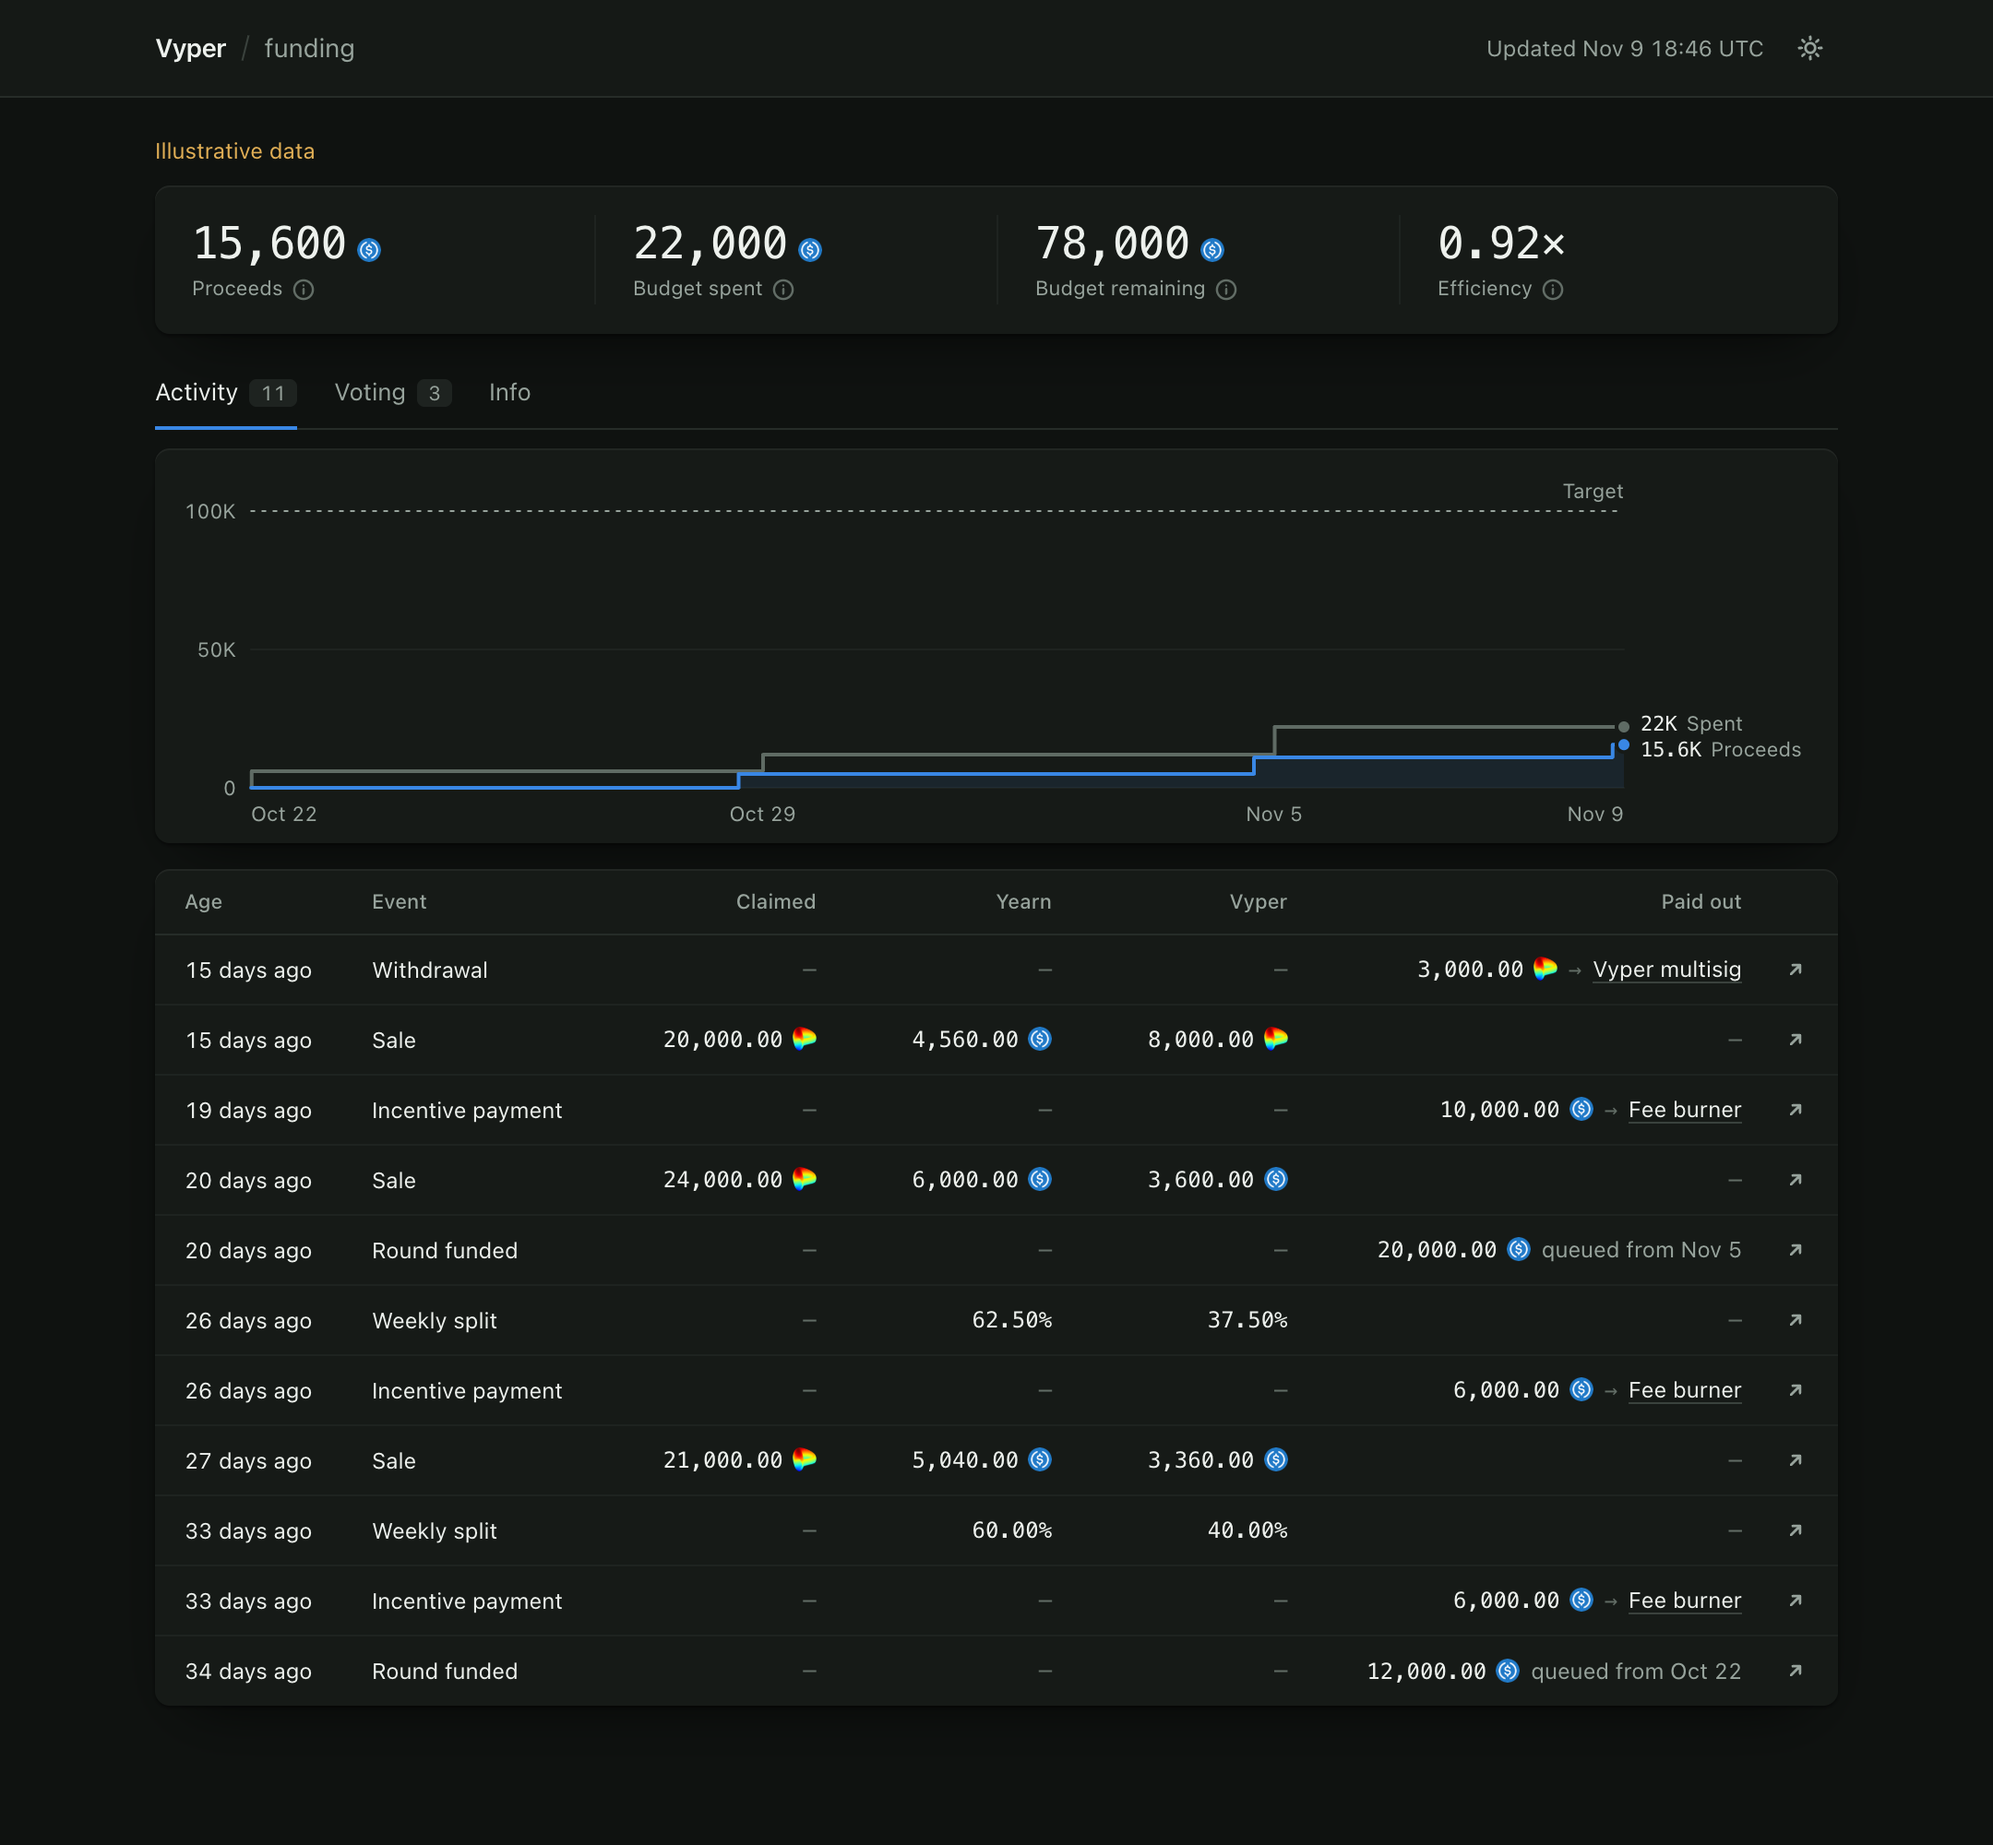
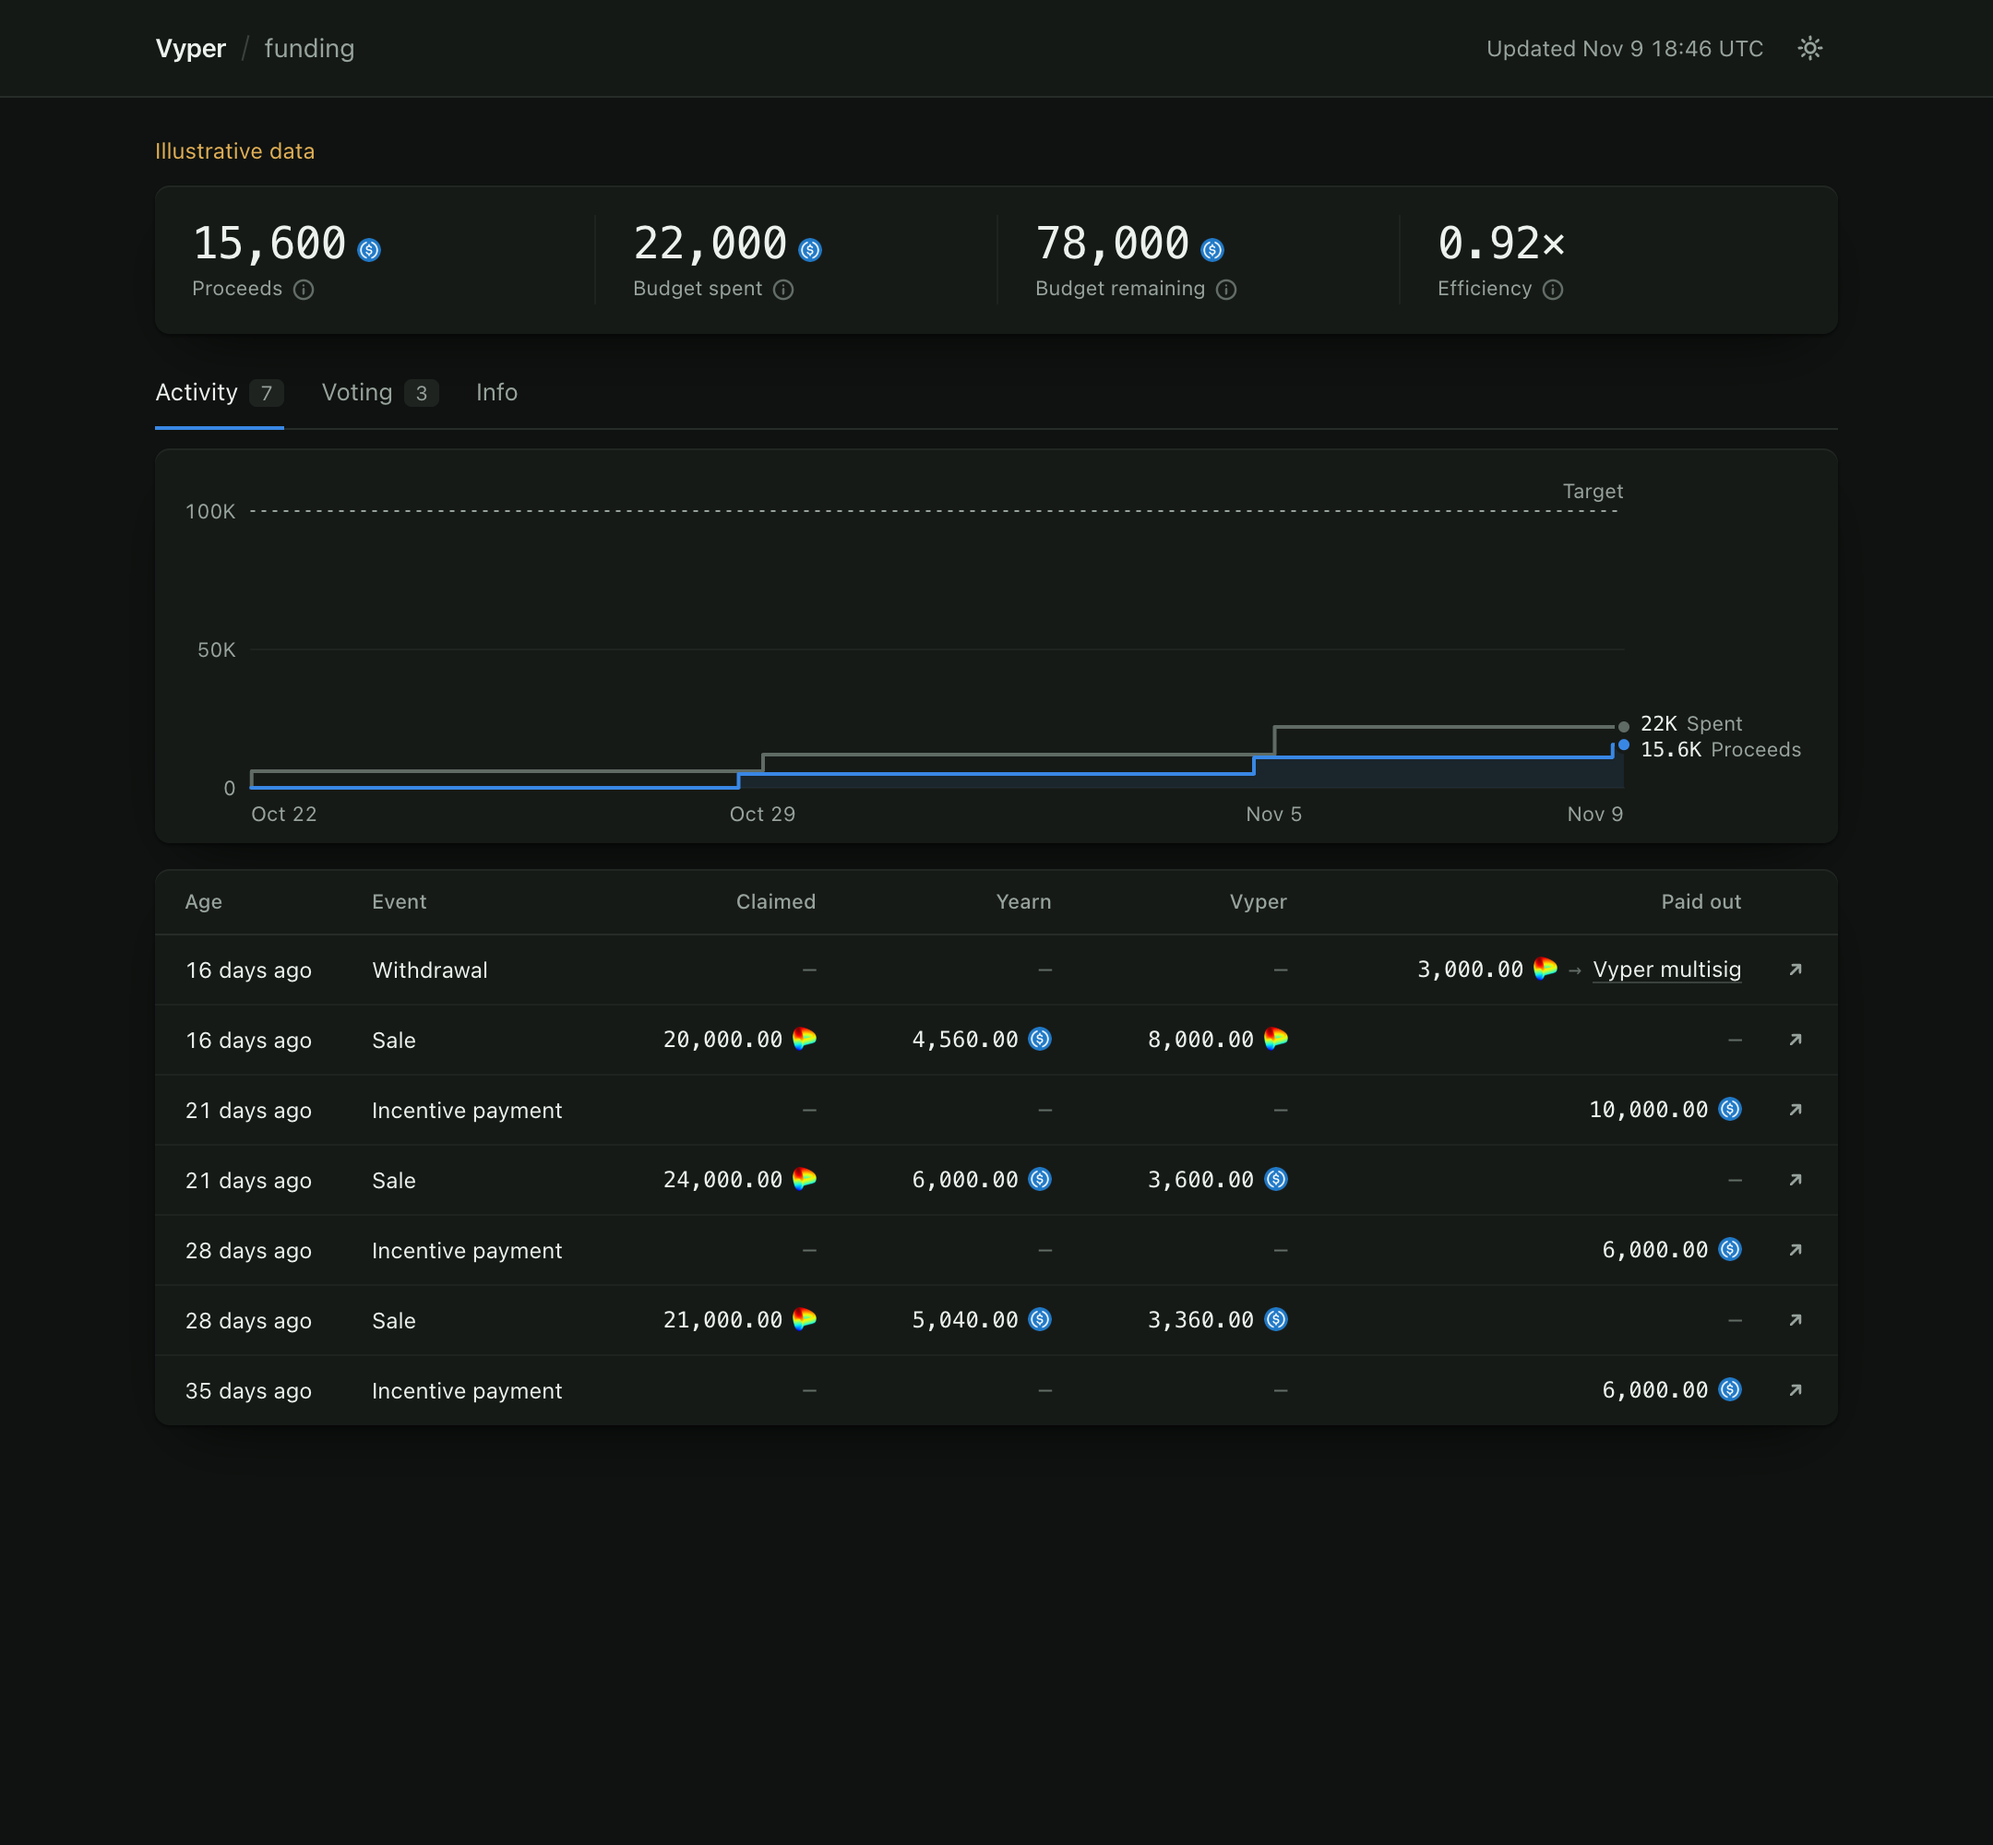
List only money movements in Activity
Activity now shows sales, incentive payments, withdrawals and recoveries,
so every row is either a claim split between Yearn and Vyper or money
leaving an escrow. Weekly and manual splits leave the list: Voting's
Share column already gives each week's split, and its Paid column the
payments due. Rounds funded or cancelled and recipient changes are left
to Etherscan. The report data is unchanged.

diff --git a/dashboard/demo/index.html b/dashboard/demo/index.html
@@ -776,7 +776,9 @@ function renderReport() {
   if (report.votes?.next) weekRow(report.votes.next, true);
   for (const week of [...report.weeks ?? []].reverse()) weekRow(week, false);
 
-  // A claim is split between Yearn and Vyper; anything leaving an escrow is listed with where it went.
+  // Activity lists money as it moves: each claim's split between Yearn and Vyper, and anything
+  // leaving an escrow with where it went. A week's split and the payment schedule are bookkeeping;
+  // Voting shows them as each week's share and its due payments.
   const cells = {0: 'meta', 1: 'text title', 6: 'link'}, names = ['', '', 'Claimed', 'Yearn', 'Vyper', 'Paid'];
   for (const t of report.transactions ?? []) {
     if (!/^0x[0-9a-fA-F]{64}$/.test(t.tx ?? '')) continue;
@@ -786,21 +788,12 @@ function renderReport() {
     if (t.kind === 'work') {
       add(big(t.crv) > big(t.vyper_crv) ? 'Sale' : 'Retained', [amount(t.crv, 18), token('CRV')],
         split(t.yearn_usdc, 0), split(t.vyper_usdc, t.vyper_crv), '—');
-    } else if (t.kind === 'checkpoint') {
-      const yearn = bps(t.share);
-      add(t.manual ? 'Manual split' : 'Weekly split', '—', pct(yearn), pct(10000n - yearn), '—');
     } else if (t.kind === 'payment') {
       // Reports from before recipients were recorded fall back to the current one.
       const recipient = t.recipient ?? report.funding_recipient;
       add('Incentive payment', '—', '—', '—', paid(t.usdc, USDC, same(recipient, FEE_BURNER) ? null : recipient));
     } else if (t.kind === 'withdrawal' || t.kind === 'recovery') {
       add(t.kind === 'withdrawal' ? 'Withdrawal' : 'Recovery', '—', '—', '—', paid(t.amount, t.token, t.recipient));
-    } else if (t.kind === 'round') {
-      add('Round funded', '—', '—', '—', paid(t.usdc, USDC));
-    } else if (t.kind === 'cancel') {
-      add('Round cancelled', '—', '—', '—', [...paid(t.usdc, USDC), span('aside', 'unpaid')]);
-    } else if (t.kind === 'recipient') {
-      add('Recipient set', '—', '—', '—', party(t.recipient));
     }
   }
 

diff --git a/dashboard/template.html b/dashboard/template.html
@@ -776,7 +776,9 @@ function renderReport() {
   if (report.votes?.next) weekRow(report.votes.next, true);
   for (const week of [...report.weeks ?? []].reverse()) weekRow(week, false);
 
-  // A claim is split between Yearn and Vyper; anything leaving an escrow is listed with where it went.
+  // Activity lists money as it moves: each claim's split between Yearn and Vyper, and anything
+  // leaving an escrow with where it went. A week's split and the payment schedule are bookkeeping;
+  // Voting shows them as each week's share and its due payments.
   const cells = {0: 'meta', 1: 'text title', 6: 'link'}, names = ['', '', 'Claimed', 'Yearn', 'Vyper', 'Paid'];
   for (const t of report.transactions ?? []) {
     if (!/^0x[0-9a-fA-F]{64}$/.test(t.tx ?? '')) continue;
@@ -786,21 +788,12 @@ function renderReport() {
     if (t.kind === 'work') {
       add(big(t.crv) > big(t.vyper_crv) ? 'Sale' : 'Retained', [amount(t.crv, 18), token('CRV')],
         split(t.yearn_usdc, 0), split(t.vyper_usdc, t.vyper_crv), '—');
-    } else if (t.kind === 'checkpoint') {
-      const yearn = bps(t.share);
-      add(t.manual ? 'Manual split' : 'Weekly split', '—', pct(yearn), pct(10000n - yearn), '—');
     } else if (t.kind === 'payment') {
       // Reports from before recipients were recorded fall back to the current one.
       const recipient = t.recipient ?? report.funding_recipient;
       add('Incentive payment', '—', '—', '—', paid(t.usdc, USDC, same(recipient, FEE_BURNER) ? null : recipient));
     } else if (t.kind === 'withdrawal' || t.kind === 'recovery') {
       add(t.kind === 'withdrawal' ? 'Withdrawal' : 'Recovery', '—', '—', '—', paid(t.amount, t.token, t.recipient));
-    } else if (t.kind === 'round') {
-      add('Round funded', '—', '—', '—', paid(t.usdc, USDC));
-    } else if (t.kind === 'cancel') {
-      add('Round cancelled', '—', '—', '—', [...paid(t.usdc, USDC), span('aside', 'unpaid')]);
-    } else if (t.kind === 'recipient') {
-      add('Recipient set', '—', '—', '—', party(t.recipient));
     }
   }
 

diff --git a/README.md b/README.md
@@ -134,7 +134,7 @@ The dashboard is one page, [`dashboard/template.html`](dashboard/template.html),
 
 The page leads with four figures from [budget request #356](https://github.com/yearn/budget/issues/356), shown on every tab: Yearn's cumulative USDC proceeds against the 100,000 USDC target, its funding payments against the 100,000 USDC spending cap, the budget remaining under that cap, and efficiency: proceeds per USDC spent, so 1.10× is $1.10 earned for every $1 spent. The budget remaining can differ from the funding escrow's balance, which yield and top-ups add to. A week's payment lands at its start and its proceeds at its end, so efficiency counts completed weeks only, both in the headline and in each row of Voting; the open week reads as pending. Proceeds are realized USDC from sales; the request credits Vyper funding by valuing attributable CRV, which this page does not compute.
 
-Each tab below the figures has its own chart above its table. Activity plots proceeds and payments over time, then lists each claim's split and every funding event: rounds, payments, cancellations, recipient changes, withdrawals and recoveries, with the recipient where there is one. Voting charts the gauge's weekly votes, then sets out, for each week, Yearn's and non-Yearn veCRV on the gauge, the CRV claimed, the funding payment for it, Yearn's proceeds and efficiency; the weights are the proceeds escrow's own snapshots, and the row for the coming week shows the votes standing so far. The report keeps funding payments out of its weekly rows, so the page places each in the week its round scheduled it for, or the week it was drawn when no round is on record. Info lists both escrows with their addresses and holdings.
+Each tab below the figures has its own chart above its table. Activity plots proceeds and payments over time, then lists money as it moves: each claim's split between Yearn and Vyper, funding payments, withdrawals and recoveries, with the recipient where there is one. Weekly splits and the payment schedule are bookkeeping and show in Voting instead; rounds, cancellations and recipient changes are left to Etherscan. Voting charts the gauge's weekly votes, then sets out, for each week, Yearn's and non-Yearn veCRV on the gauge, the CRV claimed, the funding payment for it, Yearn's proceeds and efficiency; the weights are the proceeds escrow's own snapshots, and the row for the coming week shows the votes standing so far. The report keeps funding payments out of its weekly rows, so the page places each in the week its round scheduled it for, or the week it was drawn when no round is on record. Info lists both escrows with their addresses and holdings.
 
 ```sh
 uv run python -m vyper_grant.server             # live page at http://127.0.0.1:8787
